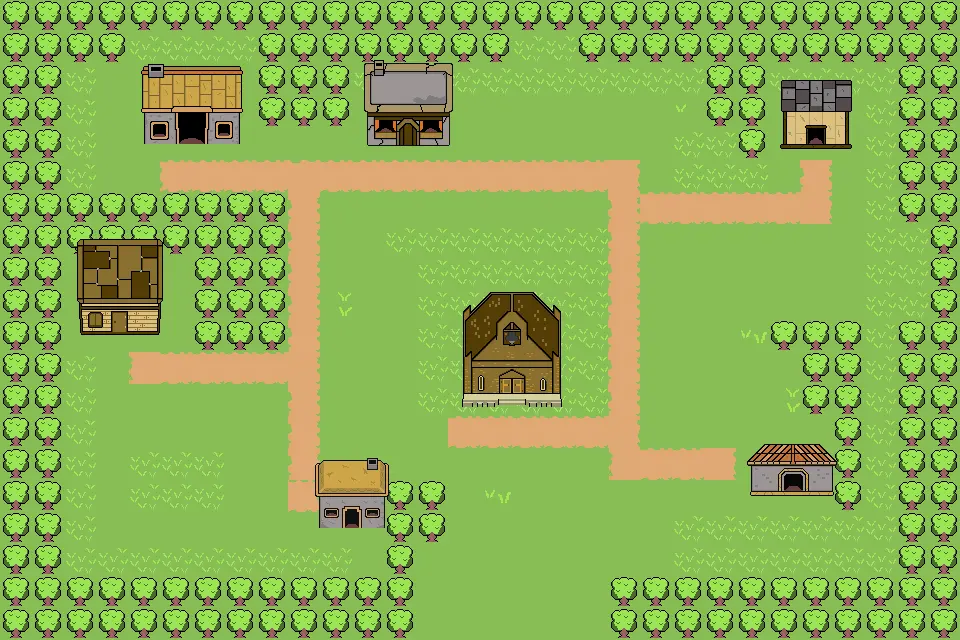
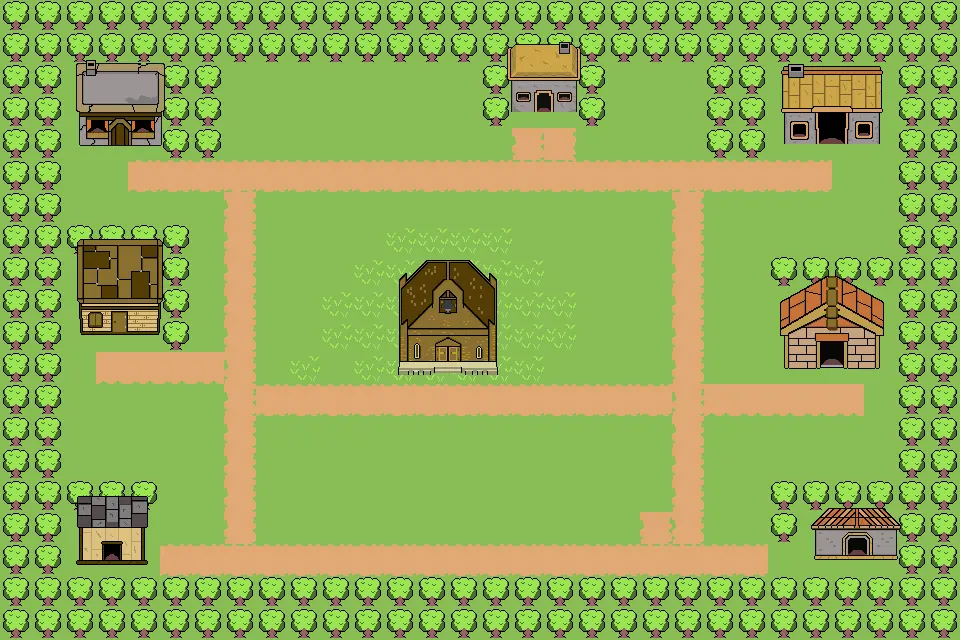
add: movilidad de personaje y colisiones con el mapa1

diff --git a/lib/ui/screens/modulos/familia/mapa_modulo1.dart b/lib/ui/screens/modulos/familia/mapa_modulo1.dart
@@ -4,7 +4,7 @@ import 'package:flame/game.dart';
 import 'package:flutter/material.dart';
 import 'package:flutter/services.dart';
 
-// --- 1. COMPONENTE DEL JUGADOR ---
+// --- 1. COMPONENTE DEL JUGADOR CON NUEVAS COLISIONES ---
 class PlayerComponent extends SpriteAnimationComponent
     with HasGameReference<MapaModulo1World> {
   late final SpriteAnimation idleAnimation;
@@ -15,9 +15,26 @@ class PlayerComponent extends SpriteAnimationComponent
 
   Vector2 velocity = Vector2.zero();
   final double speed = 120.0;
-
   String _lastState = '';
 
+  // 🧱 Lista actualizada con tus nuevas coordenadas de colisión (Mapa 960x640)
+  final List<Rect> obstacles = [
+    const Rect.fromLTWH(2.16155, 2.16155, 219.398, 125.37),
+    const Rect.fromLTWH(224.802, 2.16155, 731.686, 58.3619),
+    const Rect.fromLTWH(483.107, 47.5542, 123.209, 48.635),
+    const Rect.fromLTWH(706.828, 39.9887, 249.659, 87.5429),
+    const Rect.fromLTWH(897.045, 155.632, 56.2004, 446.361),
+    const Rect.fromLTWH(769.513, 244.256, 137.259, 109.158),
+    const Rect.fromLTWH(798.694, 469.057, 111.32, 103.755),
+    const Rect.fromLTWH(2.16155, 469.057, 156.713, 105.916),
+    const Rect.fromLTWH(2.16155, 565.246, 954.326, 73.4928),
+    const Rect.fromLTWH(3.24233, 128.612, 58.3619, 350.172),
+    const Rect.fromLTWH(65.9274, 212.913, 127.532, 109.158),
+    const Rect.fromLTWH(392.322, 246.417, 109.158, 105.916),
+    const Rect.fromLTWH(768.432, 470.138, 29.181, 38.908),
+  ];
+
+  // 🟢 Personaje configurado a su tamaño real de 32x32 píxeles
   PlayerComponent() : super(size: Vector2(64, 64), anchor: Anchor.center);
 
   @override
@@ -27,7 +44,6 @@ class PlayerComponent extends SpriteAnimationComponent
     final image = await game.images.load('elements/spritesheet1.webp');
     final textureSize = Vector2(32, 32);
 
-    // Animación Idle explícita con loop continuo
     idleAnimation = SpriteAnimation.fromFrameData(
       image,
       SpriteAnimationData.sequenced(
@@ -91,11 +107,30 @@ class PlayerComponent extends SpriteAnimationComponent
   void update(double dt) {
     super.update(dt);
     if (!velocity.isZero()) {
-      position += velocity * dt;
+      Vector2 nextPosition = position + velocity * dt;
 
-      // 🛑 LÍMITES DEL MAPA (1280x720): Mantiene al jugador dentro del fondo
-      position.x = position.x.clamp(32.0, 1280.0 - 32.0);
-      position.y = position.y.clamp(32.0, 720.0 - 32.0);
+      // 🔲 Hitbox proporcional a los 32x32
+      Rect playerRect = Rect.fromCenter(
+        center: Offset(nextPosition.x, nextPosition.y),
+        width: size.x * 0.7,
+        height: size.y * 0.7,
+      );
+
+      bool hasCollision = false;
+      for (final obstacle in obstacles) {
+        if (obstacle.overlaps(playerRect)) {
+          hasCollision = true;
+          break;
+        }
+      }
+
+      if (!hasCollision) {
+        position = nextPosition;
+      }
+
+      // 🛑 Límites del mapa de 960x640 para el personaje de 32x32
+      position.x = position.x.clamp(16.0, 960.0 - 16.0);
+      position.y = position.y.clamp(16.0, 640.0 - 16.0);
     }
   }
 
@@ -155,7 +190,7 @@ class PlayerComponent extends SpriteAnimationComponent
   }
 }
 
-// --- 2. EL MUNDO DE FLAME CON CÁMARA ACTIVA Y WORLD ---
+// --- 2. EL MUNDO DE FLAME ---
 class MapaModulo1World extends FlameGame with KeyboardEvents {
   late PlayerComponent player;
 
@@ -163,21 +198,19 @@ class MapaModulo1World extends FlameGame with KeyboardEvents {
   Future<void> onLoad() async {
     super.onLoad();
 
-    // 1. Cargamos el fondo y lo agregamos al WORLD (indispensable para que la cámara lo mueva)
+    // 1. Fondo de 960x640
     final background = SpriteComponent()
       ..sprite = await loadSprite('elements/mapa1.webp')
-      ..size = Vector2(1280, 720);
+      ..size = Vector2(960, 640);
     world.add(background);
 
-    // 2. Agregamos al jugador también al WORLD
-    player = PlayerComponent()..position = Vector2(1280 / 2, 720 / 2);
+    // 2. Jugador ubicado en una zona libre fuera de las colisiones
+    player = PlayerComponent()..position = Vector2(300, 420);
     world.add(player);
 
-    // 3. Configuración de la cámara con zoom para seccionar y explorar el fondo
+    // 3. Configuración de la cámara
     camera.viewfinder.anchor = Anchor.center;
-    camera.viewfinder.zoom = 1.2; // Ajusta este valor si quieres ver más cerca o más lejos
-    
-    // 🎥 La cámara sigue al jugador por todo el mundo
+    camera.viewfinder.zoom = 1.2;
     camera.follow(player);
   }
 
